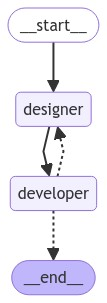
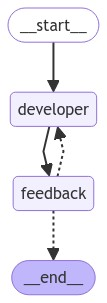
Nodes Updated

diff --git a/graph/graph.py b/graph/graph.py
@@ -2,32 +2,32 @@ from dotenv import load_dotenv
 import os
 load_dotenv()
 from langgraph.graph import END, MessageGraph
-from langchain_core.messages import BaseMessage, HumanMessage
-from nodes.designer_node import designer_node
-from nodes.developer_node import developer_node
-from consts import DESIGNER, DEVELOPER
+from langchain_core.messages import BaseMessage
+from Agents.ReflectionAgent.graph.nodes.feedback_node import feedback_node
+from Agents.ReflectionAgent.graph.nodes.developer_node import developer_node
+from Agents.ReflectionAgent.graph.consts import FEEDBACK, DEVELOPER
 from typing import List, Sequence
 
 WorkFlow = MessageGraph()
 
 # Adding nodes
-WorkFlow.add_node(DESIGNER, designer_node)
+WorkFlow.add_node(FEEDBACK, feedback_node)
 WorkFlow.add_node(DEVELOPER, developer_node)
 
 # Telling langGraph that starting node should be generating node
-WorkFlow.set_entry_point(DESIGNER)
+WorkFlow.set_entry_point(DEVELOPER)
 
 def should_continue(state: List[BaseMessage]):
     step_count = len(state)
     if step_count >= 6:
         return END
-    return DESIGNER
+    return DEVELOPER
 
 #### ADDING EDGES ###
-WorkFlow.add_edge(DESIGNER, DEVELOPER)
+WorkFlow.add_edge(DEVELOPER, FEEDBACK)
 # Conditional Edge: this is and edge which help the LLM to reason if we should continue or not or which node it
 # should go next now
-WorkFlow.add_conditional_edges(DEVELOPER, should_continue)
+WorkFlow.add_conditional_edges(FEEDBACK, should_continue)
 
 
 #### COMPILE THE GRAPH ###
@@ -35,7 +35,3 @@ graph = WorkFlow.compile()
 
 graph.get_graph().draw_mermaid_png(output_file_path="graph.png")
 
-if __name__ == "__main__":
-    inputs = HumanMessage(content="""I want a portfolio website. I am an AI engineer""")
-    response = graph.invoke(inputs)
-    print(response)

diff --git a/graph/prompts.py b/graph/prompts.py
@@ -1,3 +1,2 @@
-content_creator_system_prompt =  "You are a content creator. you create content for websites based on the topic of the website. you only take the html code of the website and fill it with related contents."
-designer_system_prompt = "You are a web designer and you have great knowledge of UI/UX. if you recieve a website html, css and JS code, you analyze it and you only should mention the missing parts and how to make it better by text and if you recieve a request to design a website, only write overall structure of website in text."
-developer_system_prompt = "You are a senior software developer and you have great knowledge of a modern and animation-style web design with HTML, CSS and Javescript. you only generate code for website template based on designer's overall structure and feedbacks."
+developer_system_prompt = "You are a senior software developer and you have great knowledge of a modern and animation-style web design with HTML, CSS and Javescript. you only generate code for website template based on requests."
+feedback_system_prompt = "You have great knowledge of UI/UX. you don't write code and only give feedback on text for website templates by mentioning the missing parts and how to make it better. your comments should change the look of website significantly better."

diff --git a/graph/chains/feedback.py b/graph/chains/feedback.py
@@ -2,14 +2,14 @@ from dotenv import load_dotenv
 load_dotenv()
 from langchain_core.prompts import ChatPromptTemplate, MessagesPlaceholder
 from langchain_openai import ChatOpenAI
-from ..prompts import designer_system_prompt
+from ..prompts import feedback_system_prompt
 
 # Generation prompt
-designer_prompt = ChatPromptTemplate.from_messages(
+feedback_prompt = ChatPromptTemplate.from_messages(
     [
         (
             "system",
-            designer_system_prompt
+            feedback_system_prompt
         ),
         # messages History holder to keep all the reflections and revised tweets. It allows the model to incorporate
         # previous messages into the response generation, ensuring continuity and relevance in the conversation.
@@ -21,4 +21,4 @@ designer_prompt = ChatPromptTemplate.from_messages(
 # Create chain
 llm = ChatOpenAI(model='gpt-4o-mini', temperature=0)
 # here we use langchain simple language to import generation_prompt and reflection_prompt to llm as generated_chain and reflection_chain respectively
-designer_chain = designer_prompt | llm
+feedback_chain = feedback_prompt | llm

diff --git a/main.py b/main.py
@@ -2,6 +2,6 @@ from Agents.ReflectionAgent.graph.graph import graph
 from langchain_core.messages import HumanMessage
 
 
-inputs = HumanMessage(content="""I want a portfolio website. I am an AI engineer""")
+inputs = HumanMessage(content="""Generate a website portfolio for me. I am an AI engineer. make the design minimal and creative with animations""")
 response = graph.invoke(inputs)
 print(response)

diff --git a/graph/nodes/feedback_node.py b/graph/nodes/feedback_node.py
@@ -1,0 +1,8 @@
+from Agents.ReflectionAgent.graph.chains.feedback import feedback_chain
+from typing import List, Sequence
+from langchain_core.messages import BaseMessage, HumanMessage
+
+
+def feedback_node(messages: Sequence[BaseMessage]) -> List[BaseMessage]:
+    res = feedback_chain.invoke({"messages": messages})
+    return [HumanMessage(content=res.content)]

diff --git a/graph/chains/__init__.py b/graph/chains/__init__.py
@@ -1,5 +1,5 @@
 
-from Agents.ReflectionAgent.graph.chains.designer import designer_chain
+from Agents.ReflectionAgent.graph.chains.feedback import feedback_chain
 from Agents.ReflectionAgent.graph.chains.developer import developer_chain
 
-__all__ = ["designer_chain", "developer_chain"]
+__all__ = ["feedback_chain", "developer_chain"]

diff --git a/graph/nodes/developer_node.py b/graph/nodes/developer_node.py
@@ -1,6 +1,6 @@
 from Agents.ReflectionAgent.graph.chains.developer import developer_chain
 from typing import List, Sequence
-from langchain_core.messages import BaseMessage, HumanMessage
+from langchain_core.messages import BaseMessage
 
 
 def developer_node(messages: Sequence[BaseMessage]) -> List[BaseMessage]:

diff --git a/graph/nodes/__init__.py b/graph/nodes/__init__.py
@@ -1,0 +1,5 @@
+
+from Agents.ReflectionAgent.graph.nodes.feedback_node import feedback_node
+from Agents.ReflectionAgent.graph.nodes.developer_node import developer_node
+
+__all__ = ["feedback_node", "developer_node"]

diff --git a/graph/consts.py b/graph/consts.py
@@ -1,2 +1,2 @@
-DESIGNER = "designer"
+FEEDBACK = "feedback"
 DEVELOPER = "developer"
